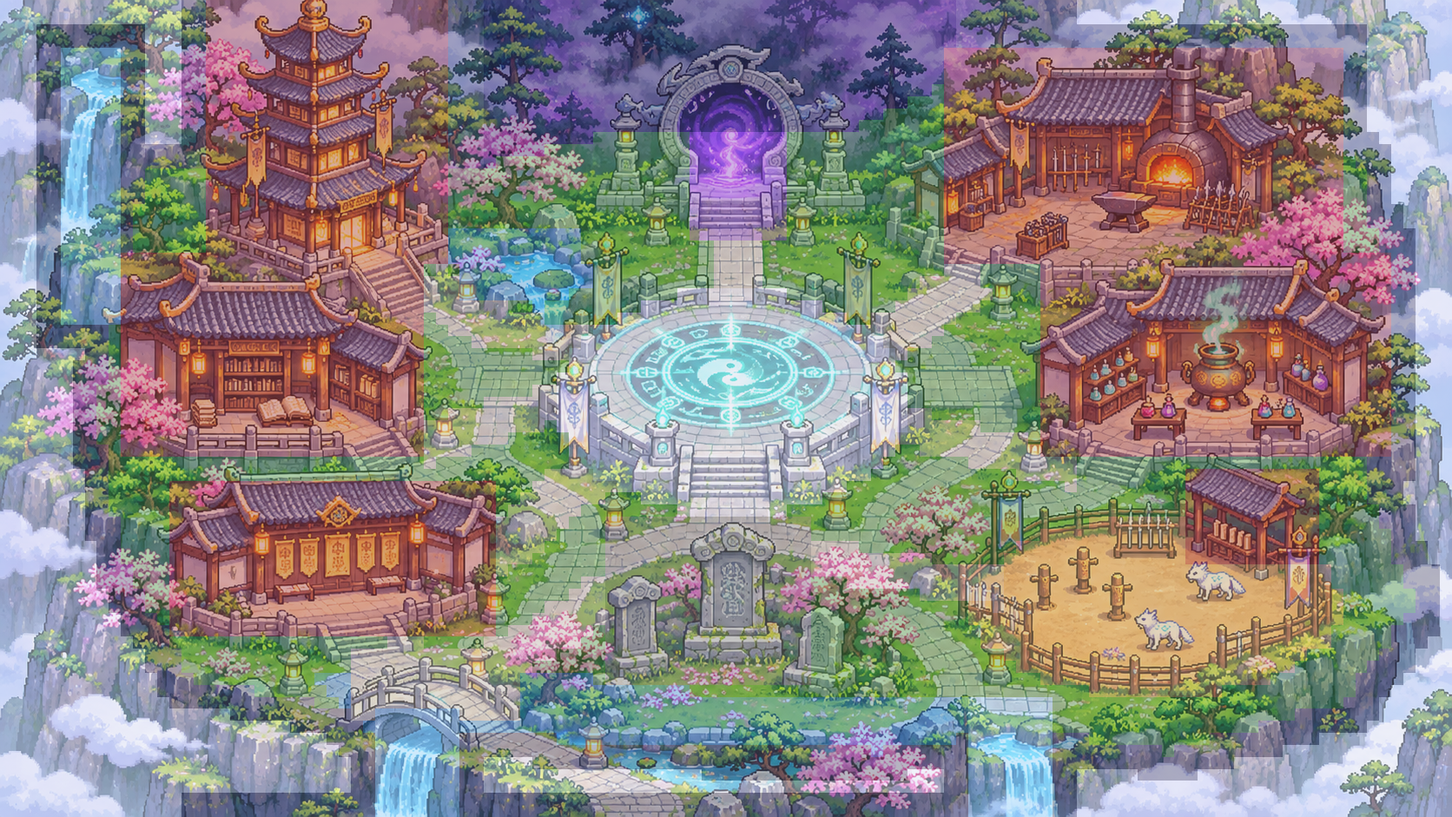
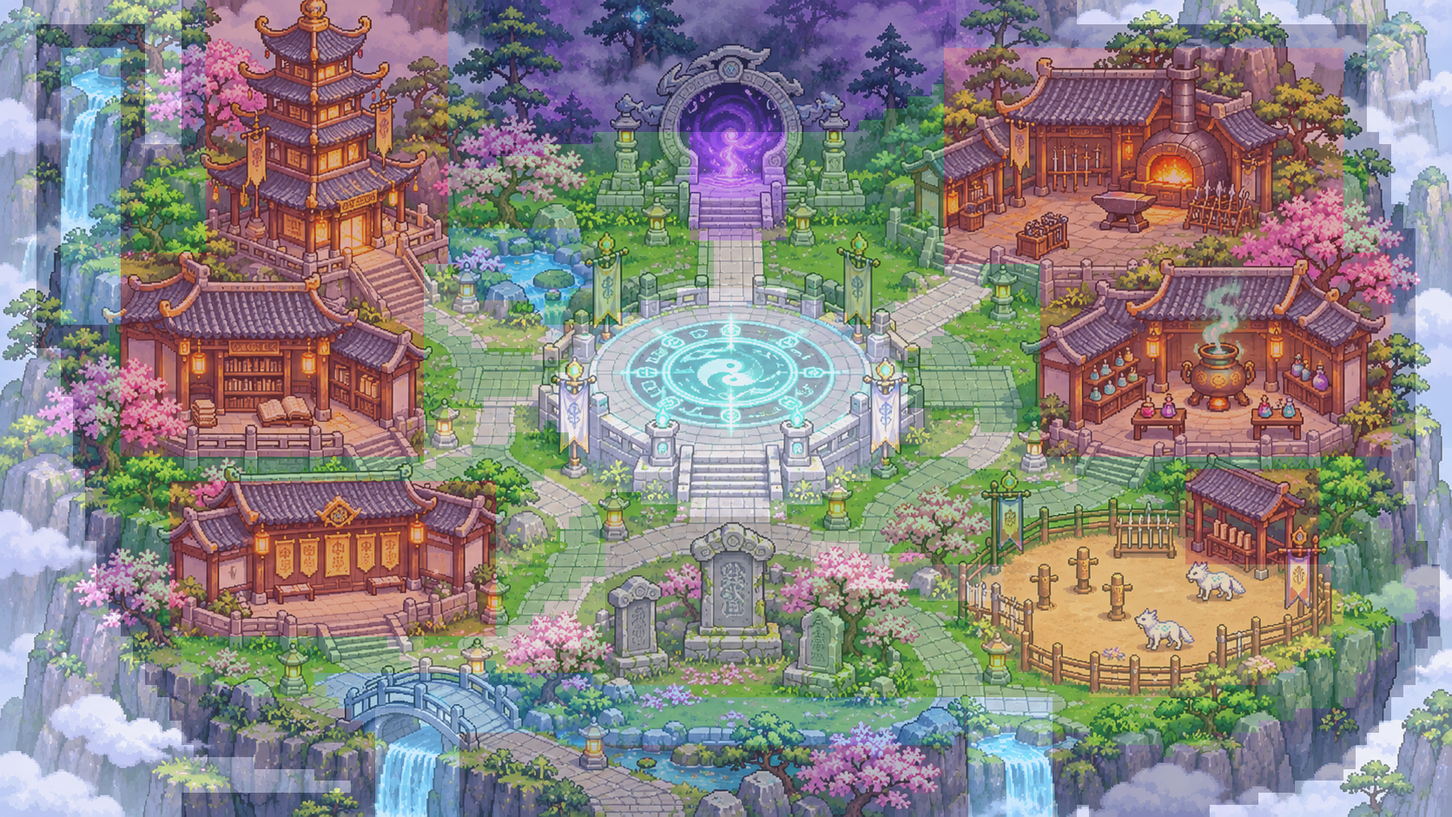
M8-15b/c/d: dia hinh sanh ve bang code (duong da, vach nui, may, thac dong), cau da tren suoi

diff --git a/src/data/sect_bocuc.js b/src/data/sect_bocuc.js
@@ -1,3 +1,3 @@
 // SINH TỰ ĐỘNG bởi tools/sect_bo_cuc.py — bố cục sảnh theo concept ảnh 1 (lưới ô). Đừng sửa tay.
 // . cỏ, = đường đá, ~ nước, d sân đất, ^ vách núi, T rừng, B chỗ công trình, P bệ, G cổng, X mây, b vườn bia, W thác
-export const BOCUC = {"nx": 120, "ny": 68, "rows": ["XXXXXXXXXXXXXXX^^BBBBBBBBBBBBBBBBBBBB^^^TTTTTTTTTTTTTTTTTTTTTTTTTTTTTTTTTTTTTTT^^^^^^^^^^XXXXXXXXXXXXXXXXXXXXXXXXXXXXXXX", "XXXXXXXXXXXXXXX^^BBBBBBBBBBBBBBBBBBBB^^^TTTTTTTTTTTTTTTTTTTTTTTTTTTTTTTTTTTTTTT^^^^^^^^^^XXXXXXXXXXXXXXXXXXXXXXXXXXXXXXX", "XXX^^^^^^^^^XXX^^BBBBBBBBBBBBBBBBBBBB^^^TTTTTTTTTTTTTTTTTTTTTTTTTTTTTTTTTTTTTTT^^^^^^^^^^^^^^^^^^^^^^^^^^^^^^^^^^XXXXXXX", "XXX^^^^^^^^^XXX^^BBBBBBBBBBBBBBBBBBBB^^^TTTTTTTTTTTTTTTTTTTTTTTTTTTTTTTTTTTTTTT^^^^^^^^^^^^^^^^^^^^^^^^^^^^^^^^^^XXXXXXX", "XXX^^WWWWW^^XXX^^BBBBBBBBBBBBBBBBBBBB^^^TTTTTTTTTTTTTTTTTTTTTTTTTTTTTTTTTTTTTTBBBBBBBBBBBBBBBBBBBBBBBBBBBBBBBBB^^XXXXXXX", "XXX^^WWWWW^^XXX^^BBBBBBBBBBBBBBBBBBBB^^^TTTTTTTTTTTTTTTTTTTTTTTTTTTTTTTTTTTTTTBBBBBBBBBBBBBBBBBBBBBBBBBBBBBBBBB^^XXXXXXX", "XXX^^WWWWW^^XXX^^BBBBBBBBBBBBBBBBBBBB^^^TTTTTTTTTTTTTTTTTTTTTTTTTTTTTTTTTTTTTTBBBBBBBBBBBBBBBBBBBBBBBBBBBBBBBBB^^XXXXXXX", "XXX^^WWWWW^^XXX^^BBBBBBBBBBBBBBBBBBBB^^^TTTTTTTTTTTTTTTTTTTTTTTTTTTTTTTTTTTTT.BBBBBBBBBBBBBBBBBBBBBBBBBBBBBBBBB^^XXXXXXX", "XXX^^WWWWW^^XXX^^BBBBBBBBBBBBBBBBBBBB^^^TTTTTTTTTTTTTTTTTTTTTTTTTTTTTTTTTTT...BBBBBBBBBBBBBBBBBBBBBBBBBBBBBBBBB^^XXXXXXX", "XXX^^WWWWW^^XXX^^BBBBBBBBBBBBBBBBBBBB^^^TTTTTTTTTTTTTTTTTTTTTTTTTTTTTTTTT.....BBBBBBBBBBBBBBBBBBBBBBBBBBBBBBBBB^^XXXXXXX", "XXX^^WWWWW^^XXX^^BBBBBBBBBBBBBBBBBBBB^^^TTTTTTTTTTTTTTTTTTTTTTTTTTTTTTT.......BBBBBBBBBBBBBBBBBBBBBBBBBBBBBBBBB^^XXXXXXX", "XXX^^WWWWW^^XXX^^BBBBBBBBBBBBBBBBBBBB^^^TTTTTTTTT........GGGGGGGG.............BBBBBBBBBBBBBBBBBBBBBBBBBBBBBBBBB^^^XXXXXX", "XXX^^WWWWW^^^^^^^BBBBBBBBBBBBBBBBBBBB^^^TTTTT............GGGGGGGG.............BBBBBBBBBBBBBBBBBBBBBBBBBBBBBBBBB^^^^XXXXX", "XXX^^WWWWW^^^^^^^BBBBBBBBBBBBBBBBBBBB^^^T................GGGGGGGG.............BBBBBBBBBBBBBBBBBBBBBBBBBBBBBBBBB.^^^XXXXX", "XXX^^WWWWW^^.....BBBBBBBBBBBBBBBBBBBB....................GGGGGGGG.............BBBBBBBBBBBBBBBBBBBBBBBBBBBBBBBBB..^^XXXXX", "XXX^^WWWWW^^.....BBBBBBBBBBBBBBBBBBBB....................GGGGGGGG.............BBBBBBBBBBBBBBBBBBBBBBBBBBBBBBBBB..^^XXXXX", "XXX^^WWWWW^^.....BBBBBBBBBBBBBBBBBBBB....................GGGGGGGG.............BBBBBBBBBBBBBBBBBBBBBBBBBBBBBBBBB..^^XXXXX", "XXX^^WWWWW^......BBBBBBBBBBBBBBBBBBBB....................GGGGGGGG.............BBBBBBBBBBBBBBBBBBBBBBBBBBBBBBBBB..^^^XXXX", "XXX^^WWWWW^......BBBBBBBBBBBBBBBBBBBB....................GGGGGGGG.............BBBBBBBBBBBBBBBBBBBBBBBBBBBBBBBBB..^^^XXXX", "XXX^^WWWWW^......BBBBBBBBBBBBBBBBBBBB~~~~~~~~~~~.........GGGGGGGG.............BBBBBBBBBBBBBBBBBBBBBBBBBBBBBBBBB...^^^XXX", "XXX^^WWWWW^......BBBBBBBBBBBBBBBBBBBB~~~~~~~~~~~...........====...............BBBBBBBBBBBBBBBBBBBBBBBBBBBBBBBBB...^^^XXX", "XXX^^WWWWWBBBBBBBBBBBBBBBBBBBBBBBBBBB~~~~~~~~~~~...........====...............BBBBBBBBBBBBBBBBBBBBBBBBBBBBBBBBBBBBB^^XXX", "XXX^^WWWWWBBBBBBBBBBBBBBBBBBBBBBBBB.=.~~~~~~~~~~~..........====...............===.....BBBBBBBBBBBBBBBBBBBBBBBBBBBBB^^XXX", "XXX^^WWWWWBBBBBBBBBBBBBBBBBBBBBBBBB===~~~~~~~~~~~..........====.............=====.....BBBBBBBBBBBBBBBBBBBBBBBBBBBBB^^XXX", "XXX^^WWWWWBBBBBBBBBBBBBBBBBBBBBBBBB===~~~~~~~~~.........PPPPPPPPP..........=======....BBBBBBBBBBBBBBBBBBBBBBBBBBBBB^^XXX", "XXX^^WWWWWBBBBBBBBBBBBBBBBBBBBBBBBB=======..~........PPPPPPPPPPPPPPP......=======.....BBBBBBBBBBBBBBBBBBBBBBBBBBBBB^^XXX", "XXX^^WWWWWBBBBBBBBBBBBBBBBBBBBBBBBB.=========......PPPPPPPPPPPPPPPPPPP..=======.......BBBBBBBBBBBBBBBBBBBBBBBBBBBBB^^XXX", "XXX^^^^^^.BBBBBBBBBBBBBBBBBBBBBBBBB..============PPPPPPPPPPPPPPPPPPPPPPP======........BBBBBBBBBBBBBBBBBBBBBBBBBBBBB^^XXX", "XXX^^^^^^.BBBBBBBBBBBBBBBBBBBBBBBBB....=========PPPPPPPPPPPPPPPPPPPPPPPPP====.........BBBBBBBBBBBBBBBBBBBBBBBBBBBBB^^XXX", "XXXXXXX^^.BBBBBBBBBBBBBBBBBBBBBBBBB.........===PPPPPPPPPPPPPPPPPPPPPPPPPPP=...........BBBBBBBBBBBBBBBBBBBBBBBBBBBBB^^XXX", "XXXXXX^^^.BBBBBBBBBBBBBBBBBBBBBBBBB............PPPPPPPPPPPPPPPPPPPPPPPPPPP............BBBBBBBBBBBBBBBBBBBBBBBBBBBBB^^XXX", "XXXXXX^^^.BBBBBBBBBBBBBBBBBBBBBBBBB...........PPPPPPPPPPPPPPPPPPPPPPPPPPPPP...........BBBBBBBBBBBBBBBBBBBBBBBBBBBBB^^XXX", "XXXXXX^^..BBBBBBBBBBBBBBBBBBBBBBBBB.........==PPPPPPPPPPPPPPPPPPPPPPPPPPPPP...........BBBBBBBBBBBBBBBBBBBBBBBBBBBBB^^XXX", "XXXXXX^^..BBBBBBBBBBBBBBBBBBBBBBBBB.....======PPPPPPPPPPPPPPPPPPPPPPPPPPPPP...........BBBBBBBBBBBBBBBBBBBBBBBBBBBBB^^XXX", "XXXXXX^^..BBBBBBBBBBBBBBBBBBBBBBBBB..=========PPPPPPPPPPPPPPPPPPPPPPPPPPPPP==.........BBBBBBBBBBBBBBBBBBBBBBBBBBBBB^^XXX", "XXXXXX^^..BBBBBBBBBBBBBBBBBBBBBBBBB==========.PPPPPPPPPPPPPPPPPPPPPPPPPPPPP======.....BBBBBBBBBBBBBBBBBBBBBBBBBBBBB^^XXX", "XXXXXX^^..BBBBBBBBBBBBBBBBBBBBBBBBB=======.....PPPPPPPPPPPPPPPPPPPPPPPPPPP===========.BBBBBBBBBBBBBBBBBBBBBBBBBBBBB^^XXX", "XXXXXX^^^.BBBBBBBBBBBBBBBBBBBBBBBBB====........PPPPPPPPPPPPPPPPPPPPPPPPPPP..==========BBBBBBBBBBBBBBBBBBBBBBBBBBBBB^^XXX", "XXXXXX^^^..........................=...........=PPPPPPPPPPPPPPPPPPPPPPPPP.......=========........................^^^^XXX", "XXXXXXX^^....................................====PPPPPPPPPPPPPPPPPPPPPPP............=====.........BBBBBBBBBBB....^^^^XXX", "XXXXXXX^^.....BBBBBBBBBBBBBBBBBBBBBBBBBBB...=======PPPPPPPPPPPPPPPPPPP..................=.........BBBBBBBBBBB....^^^XXXX", "XXXXXXX^^.....BBBBBBBBBBBBBBBBBBBBBBBBBBB..=======...PPPPPPPPPPPPPPP..............................BBBBBBBBBBB....^^^XXXX", "XXXXXXX^^.....BBBBBBBBBBBBBBBBBBBBBBBBBBB.======........PPPPPPPPP.................................BBBBBBBBBBB.....^^^XXX", "XXXXXXX^^^....BBBBBBBBBBBBBBBBBBBBBBBBBBB======...bbbbbbbbbbbbbbbbb.......................ddddddddBBBBBBBBBBB.....^^^XXX", "XXXXXXX^^^....BBBBBBBBBBBBBBBBBBBBBBBBBBB=====....bbbbbbbbbbbbbbbbb...................ddddddddddddBBBBBBBBBBB......^^XXX", "XXXXXXXX^^....BBBBBBBBBBBBBBBBBBBBBBBBBBB====.....bbbbbbbbbbbbbbbbb====.............ddddddddddddddBBBBBBBBBBB......^^^XX", "XXXXXXXX^^....BBBBBBBBBBBBBBBBBBBBBBBBBBB===......bbbbbbbbbbbbbbbbb==========......dddddddddddddddBBBBBBBBBBB......^^^XX", "XXXXXXXX^^^...BBBBBBBBBBBBBBBBBBBBBBBBBBB=........bbbbbbbbbbbbbbbbb================ddddddddddddddddddddddddddd......^^^X", "XXXXXXXX^^^...BBBBBBBBBBBBBBBBBBBBBBBBBBB.......==bbbbbbbbbbbbbbbbb...=============ddddddddddddddddddddddddddd......^^^X", "XXXXXXXXX^^^..BBBBBBBBBBBBBBBBBBBBBBBBBBB......===bbbbbbbbbbbbbbbbb.........=======dddddddddddddddddddddddddddd......^^X", "XXXXXXXXX^^^..BBBBBBBBBBBBBBBBBBBBBBBBBBB....=====bbbbbbbbbbbbbbbbb.............dd=dddddddddddddddddddddddddddd......^^X", "XXXXXXXXXX^^^.BBBBBBBBBBBBBBBBBBBBBBBBBBB...======bbbbbbbbbbbbbbbbb.............ddddddddddddddddddddddddddddddd.....^^^X", "XXXXXXXXXX^^^^BBBBBBBBBBBBBBBBBBBBBBBBBBB.=======.bbbbbbbbbbbbbbbbb..............ddddddddddddddddddddddddddddd.....^^^^X", "XXXXXXXXXXX^^^..................===.....========..bbbbbbbbbbbbbbbbb..............ddddddddddddddddddddddddddddd.....^^^XX", "XXXXXXXXXXXX^^^..............=================....bbbbbbbbbbbbbbbbb................ddddddddddddddddddddddddd......^^^XXX", "XXXXXXXXXXXX^^^..............===============......bbbbbbbbbbbbbbbbb.................ddddddddddddddddddddddd......^^^^XXX", "XXXXXXXXXXXXX^^^..........~~~==============~~~~~~.bbbbbbbbbbbbbbbbb...................ddddddddddddddddddd.......^^^^XXXX", "XXXXXXXXXXXXX^^^^^^^^......~~==============~~~~~~~~~~~~~~.................................ddddddddddd...........^^^XXXXX", "XXXXXXXXXXXXXX^^^^^^^^^^^^..~==============~~~~~~~~~~~~~~~~~~~~~~~~~~~~~~~~~~~~~WWWWWWW........................^^^XXXXXX", "XXXXXXXXXXXXXXXXXXX^^^^^^^^^^==WWWWWWW=====~~~~~~~~~~~~~~~~~~~~~~~~~~~~~~~~~~~~~WWWWWWW....................^^^^^^^XXXXXX", "XXXXXXXXXXXXXXXXXXXXXXXX^^^^^^~WWWWWWW~~~~~~~~~~~~~~~~~~~~~~~~~~~~~~~~~~~~~~~~~~WWWWWWW.................^^^^^^^^^XXXXXXX", "XXXXXXXXXXXXXXXXXXXXXXXXXXX^^^^WWWWWWW^^^^^^^^~~~~~~~~~~~~~~~~~~~~~~~~~~~~~~~~~^WWWWWWW^^^..........^^^^^^^^^XXXXXXXXXXX", "XXXXXXXXXXXXXXXXXXXXXXXXXXXX^^^WWWWWWW^^^^^^^^^^^^^^^^^^^^^^^^^^^^^^^^^^~^^^^^^^WWWWWWW^^^^^^^^^.^^^^^^^^^XXXXXXXXXXXXXX", "XXXXXXXXXXXXXXXXXXXXXXXXXXXXX^^WWWWWWW^^XXXX^^^^^^^^^^^^^^^^^^^^^^^^^^^^^^^^^^^^WWWWWWW^^^^^^^^^^^^^^^XXXXXXXXXXXXXXXXXX", "XXXXXXXXXXXXXXXXXXXXXXXXXXXXX^^WWWWWWW^^XXXXXXXXXXXXXXXXXX^^^^^^^^^^^^^^^^^XXX^^WWWWWWW^^XXXXX^^^^^XXXXXXXXXXXXXXXXXXXXX", "XXXXXXXXXXXXXXXXXXXXXXXXXXXXX^^WWWWWWW^^XXXXXXXXXXXXXXXXXXXXXXXXXXXXXXXXXXXXXX^^WWWWWWW^^XXXXXXXXXXXXXXXXXXXXXXXXXXXXXXX", "XXXXXXXXXXXXXXX^^^^^^^^^^^^^^^^WWWWWWW^^^^^^^^^^^^^^^^^^^^^^^^^^^^^^^^^^^^^^^^^^WWWWWWW^^XXXXXXXXXXXXXXXXXXXXXXXXXXXXXXX", "XXXXXXXXXXXXXXX^^^^^^^^^^^^^^^^WWWWWWW^^^^^^^^^^^^^^^^^^^^^^^^^^^^^^^^^^^^^^^^^^WWWWWWW^^XXXXXXXXXXXXXXXXXXXXXXXXXXXXXXX"], "buildings": {"truyen_thua": {"box": [17, 0, 36, 21], "foot": [35, 24], "name": "Truyền Thừa Các (tháp)"}, "tang_kinh": {"box": [10, 21, 34, 37], "foot": [34, 37], "name": "Tàng Kinh Các"}, "cong_duc": {"box": [14, 40, 40, 52], "foot": [32, 53], "name": "Công Đức Đường"}, "luyen_khi": {"box": [78, 4, 110, 21], "foot": [80, 22], "name": "Luyện Khí Phường"}, "dan_duoc": {"box": [86, 21, 114, 37], "foot": [88, 38], "name": "Đan Dược Phòng"}, "luyen_vo_choi": {"box": [98, 39, 108, 46], "foot": [98, 46], "name": "chòi Luyện Võ"}}, "plaza": {"c": [60.5, 33], "rx": 14, "ry": 9}, "gate": {"x": [57, 64], "y": [11, 19]}};
+export const BOCUC = {"nx": 120, "ny": 68, "rows": ["XXXXXXXXXXXXXXX^^BBBBBBBBBBBBBBBBBBBB^^^TTTTTTTTTTTTTTTTTTTTTTTTTTTTTTTTTTTTTTT^^^^^^^^^^XXXXXXXXXXXXXXXXXXXXXXXXXXXXXXX", "XXXXXXXXXXXXXXX^^BBBBBBBBBBBBBBBBBBBB^^^TTTTTTTTTTTTTTTTTTTTTTTTTTTTTTTTTTTTTTT^^^^^^^^^^XXXXXXXXXXXXXXXXXXXXXXXXXXXXXXX", "XXX^^^^^^^^^XXX^^BBBBBBBBBBBBBBBBBBBB^^^TTTTTTTTTTTTTTTTTTTTTTTTTTTTTTTTTTTTTTT^^^^^^^^^^^^^^^^^^^^^^^^^^^^^^^^^^XXXXXXX", "XXX^^^^^^^^^XXX^^BBBBBBBBBBBBBBBBBBBB^^^TTTTTTTTTTTTTTTTTTTTTTTTTTTTTTTTTTTTTTT^^^^^^^^^^^^^^^^^^^^^^^^^^^^^^^^^^XXXXXXX", "XXX^^WWWWW^^XXX^^BBBBBBBBBBBBBBBBBBBB^^^TTTTTTTTTTTTTTTTTTTTTTTTTTTTTTTTTTTTTTBBBBBBBBBBBBBBBBBBBBBBBBBBBBBBBBB^^XXXXXXX", "XXX^^WWWWW^^XXX^^BBBBBBBBBBBBBBBBBBBB^^^TTTTTTTTTTTTTTTTTTTTTTTTTTTTTTTTTTTTTTBBBBBBBBBBBBBBBBBBBBBBBBBBBBBBBBB^^XXXXXXX", "XXX^^WWWWW^^XXX^^BBBBBBBBBBBBBBBBBBBB^^^TTTTTTTTTTTTTTTTTTTTTTTTTTTTTTTTTTTTTTBBBBBBBBBBBBBBBBBBBBBBBBBBBBBBBBB^^XXXXXXX", "XXX^^WWWWW^^XXX^^BBBBBBBBBBBBBBBBBBBB^^^TTTTTTTTTTTTTTTTTTTTTTTTTTTTTTTTTTTTT.BBBBBBBBBBBBBBBBBBBBBBBBBBBBBBBBB^^XXXXXXX", "XXX^^WWWWW^^XXX^^BBBBBBBBBBBBBBBBBBBB^^^TTTTTTTTTTTTTTTTTTTTTTTTTTTTTTTTTTT...BBBBBBBBBBBBBBBBBBBBBBBBBBBBBBBBB^^XXXXXXX", "XXX^^WWWWW^^XXX^^BBBBBBBBBBBBBBBBBBBB^^^TTTTTTTTTTTTTTTTTTTTTTTTTTTTTTTTT.....BBBBBBBBBBBBBBBBBBBBBBBBBBBBBBBBB^^XXXXXXX", "XXX^^WWWWW^^XXX^^BBBBBBBBBBBBBBBBBBBB^^^TTTTTTTTTTTTTTTTTTTTTTTTTTTTTTT.......BBBBBBBBBBBBBBBBBBBBBBBBBBBBBBBBB^^XXXXXXX", "XXX^^WWWWW^^XXX^^BBBBBBBBBBBBBBBBBBBB^^^TTTTTTTTT........GGGGGGGG.............BBBBBBBBBBBBBBBBBBBBBBBBBBBBBBBBB^^^XXXXXX", "XXX^^WWWWW^^^^^^^BBBBBBBBBBBBBBBBBBBB^^^TTTTT............GGGGGGGG.............BBBBBBBBBBBBBBBBBBBBBBBBBBBBBBBBB^^^^XXXXX", "XXX^^WWWWW^^^^^^^BBBBBBBBBBBBBBBBBBBB^^^T................GGGGGGGG.............BBBBBBBBBBBBBBBBBBBBBBBBBBBBBBBBB.^^^XXXXX", "XXX^^WWWWW^^.....BBBBBBBBBBBBBBBBBBBB....................GGGGGGGG.............BBBBBBBBBBBBBBBBBBBBBBBBBBBBBBBBB..^^XXXXX", "XXX^^WWWWW^^.....BBBBBBBBBBBBBBBBBBBB....................GGGGGGGG.............BBBBBBBBBBBBBBBBBBBBBBBBBBBBBBBBB..^^XXXXX", "XXX^^WWWWW^^.....BBBBBBBBBBBBBBBBBBBB....................GGGGGGGG.............BBBBBBBBBBBBBBBBBBBBBBBBBBBBBBBBB..^^XXXXX", "XXX^^WWWWW^......BBBBBBBBBBBBBBBBBBBB....................GGGGGGGG.............BBBBBBBBBBBBBBBBBBBBBBBBBBBBBBBBB..^^^XXXX", "XXX^^WWWWW^......BBBBBBBBBBBBBBBBBBBB....................GGGGGGGG.............BBBBBBBBBBBBBBBBBBBBBBBBBBBBBBBBB..^^^XXXX", "XXX^^WWWWW^......BBBBBBBBBBBBBBBBBBBB~~~~~~~~~~~.........GGGGGGGG.............BBBBBBBBBBBBBBBBBBBBBBBBBBBBBBBBB...^^^XXX", "XXX^^WWWWW^......BBBBBBBBBBBBBBBBBBBB~~~~~~~~~~~...........====...............BBBBBBBBBBBBBBBBBBBBBBBBBBBBBBBBB...^^^XXX", "XXX^^WWWWWBBBBBBBBBBBBBBBBBBBBBBBBBBB~~~~~~~~~~~...........====...............BBBBBBBBBBBBBBBBBBBBBBBBBBBBBBBBBBBBB^^XXX", "XXX^^WWWWWBBBBBBBBBBBBBBBBBBBBBBBBB.=.~~~~~~~~~~~..........====...............===.....BBBBBBBBBBBBBBBBBBBBBBBBBBBBB^^XXX", "XXX^^WWWWWBBBBBBBBBBBBBBBBBBBBBBBBB===~~~~~~~~~~~..........====.............=====.....BBBBBBBBBBBBBBBBBBBBBBBBBBBBB^^XXX", "XXX^^WWWWWBBBBBBBBBBBBBBBBBBBBBBBBB===~~~~~~~~~.........PPPPPPPPP..........=======....BBBBBBBBBBBBBBBBBBBBBBBBBBBBB^^XXX", "XXX^^WWWWWBBBBBBBBBBBBBBBBBBBBBBBBB=======..~........PPPPPPPPPPPPPPP......=======.....BBBBBBBBBBBBBBBBBBBBBBBBBBBBB^^XXX", "XXX^^WWWWWBBBBBBBBBBBBBBBBBBBBBBBBB.=========......PPPPPPPPPPPPPPPPPPP..=======.......BBBBBBBBBBBBBBBBBBBBBBBBBBBBB^^XXX", "XXX^^^^^^.BBBBBBBBBBBBBBBBBBBBBBBBB..============PPPPPPPPPPPPPPPPPPPPPPP======........BBBBBBBBBBBBBBBBBBBBBBBBBBBBB^^XXX", "XXX^^^^^^.BBBBBBBBBBBBBBBBBBBBBBBBB....=========PPPPPPPPPPPPPPPPPPPPPPPPP====.........BBBBBBBBBBBBBBBBBBBBBBBBBBBBB^^XXX", "XXXXX^^^^.BBBBBBBBBBBBBBBBBBBBBBBBB.........===PPPPPPPPPPPPPPPPPPPPPPPPPPP=...........BBBBBBBBBBBBBBBBBBBBBBBBBBBBB^^XXX", "XXXXX^^^^.BBBBBBBBBBBBBBBBBBBBBBBBB............PPPPPPPPPPPPPPPPPPPPPPPPPPP............BBBBBBBBBBBBBBBBBBBBBBBBBBBBB^^XXX", "XXXXX^^^^.BBBBBBBBBBBBBBBBBBBBBBBBB...........PPPPPPPPPPPPPPPPPPPPPPPPPPPPP...........BBBBBBBBBBBBBBBBBBBBBBBBBBBBB^^XXX", "XXXXX^^^..BBBBBBBBBBBBBBBBBBBBBBBBB.........==PPPPPPPPPPPPPPPPPPPPPPPPPPPPP...........BBBBBBBBBBBBBBBBBBBBBBBBBBBBB^^XXX", "XXXXXX^^..BBBBBBBBBBBBBBBBBBBBBBBBB.....======PPPPPPPPPPPPPPPPPPPPPPPPPPPPP...........BBBBBBBBBBBBBBBBBBBBBBBBBBBBB^^XXX", "XXXXXX^^..BBBBBBBBBBBBBBBBBBBBBBBBB..=========PPPPPPPPPPPPPPPPPPPPPPPPPPPPP==.........BBBBBBBBBBBBBBBBBBBBBBBBBBBBB^^XXX", "XXXXXX^^..BBBBBBBBBBBBBBBBBBBBBBBBB==========.PPPPPPPPPPPPPPPPPPPPPPPPPPPPP======.....BBBBBBBBBBBBBBBBBBBBBBBBBBBBB^^XXX", "XXXXXX^^..BBBBBBBBBBBBBBBBBBBBBBBBB=======.....PPPPPPPPPPPPPPPPPPPPPPPPPPP===========.BBBBBBBBBBBBBBBBBBBBBBBBBBBBB^^XXX", "XXXXXX^^^.BBBBBBBBBBBBBBBBBBBBBBBBB====........PPPPPPPPPPPPPPPPPPPPPPPPPPP..==========BBBBBBBBBBBBBBBBBBBBBBBBBBBBB^^XXX", "XXXXXX^^^..........................=...........=PPPPPPPPPPPPPPPPPPPPPPPPP.......=========........................^^^^XXX", "XXXXXXX^^....................................====PPPPPPPPPPPPPPPPPPPPPPP............=====.........BBBBBBBBBBB....^^^^XXX", "XXXXXXX^^.....BBBBBBBBBBBBBBBBBBBBBBBBBBB...=======PPPPPPPPPPPPPPPPPPP..................=.........BBBBBBBBBBB....^^^XXXX", "XXXXXXX^^.....BBBBBBBBBBBBBBBBBBBBBBBBBBB..=======...PPPPPPPPPPPPPPP..............................BBBBBBBBBBB....^^^XXXX", "XXXXXXX^^.....BBBBBBBBBBBBBBBBBBBBBBBBBBB.======........PPPPPPPPP.................................BBBBBBBBBBB.....^^^XXX", "XXXXXXX^^^....BBBBBBBBBBBBBBBBBBBBBBBBBBB======...bbbbbbbbbbbbbbbbb.......................ddddddddBBBBBBBBBBB.....^^^XXX", "XXXXXXX^^^....BBBBBBBBBBBBBBBBBBBBBBBBBBB=====....bbbbbbbbbbbbbbbbb...................ddddddddddddBBBBBBBBBBB......^^XXX", "XXXXXXXX^^....BBBBBBBBBBBBBBBBBBBBBBBBBBB====.....bbbbbbbbbbbbbbbbb====.............ddddddddddddddBBBBBBBBBBB......^^^XX", "XXXXXXXX^^....BBBBBBBBBBBBBBBBBBBBBBBBBBB===......bbbbbbbbbbbbbbbbb==========......dddddddddddddddBBBBBBBBBBB......^^^XX", "XXXXXXXX^^^...BBBBBBBBBBBBBBBBBBBBBBBBBBB=........bbbbbbbbbbbbbbbbb================ddddddddddddddddddddddddddd......^^^X", "XXXXXXXX^^^...BBBBBBBBBBBBBBBBBBBBBBBBBBB.......==bbbbbbbbbbbbbbbbb...=============ddddddddddddddddddddddddddd......^^^X", "XXXXXXXXX^^^..BBBBBBBBBBBBBBBBBBBBBBBBBBB......===bbbbbbbbbbbbbbbbb.........=======dddddddddddddddddddddddddddd......^^X", "XXXXXXXXX^^^..BBBBBBBBBBBBBBBBBBBBBBBBBBB....=====bbbbbbbbbbbbbbbbb.............dd=dddddddddddddddddddddddddddd......^^X", "XXXXXXXXXX^^^.BBBBBBBBBBBBBBBBBBBBBBBBBBB...======bbbbbbbbbbbbbbbbb.............ddddddddddddddddddddddddddddddd.....^^^X", "XXXXXXXXXX^^^^BBBBBBBBBBBBBBBBBBBBBBBBBBB.=======.bbbbbbbbbbbbbbbbb..............ddddddddddddddddddddddddddddd.....^^^^X", "XXXXXXXXXXX^^^..................===.....========..bbbbbbbbbbbbbbbbb..............ddddddddddddddddddddddddddddd.....^^^XX", "XXXXXXXXXXX^^^^..................=============....bbbbbbbbbbbbbbbbb................ddddddddddddddddddddddddd......^^^XXX", "XXXXXXXXXXXX^^^...................======~===......bbbbbbbbbbbbbbbbb.................ddddddddddddddddddddddd......^^^^XXX", "XXXXXXXXXXXX^^^^..........~~~~~~~~~~~~~~~~~~~~~~~.bbbbbbbbbbbbbbbbb...................ddddddddddddddddddd.......^^^^^XXX", "XXXXXXXXXXXXX^^^^^^^^......~~~~~~~~~~~~~~~~~~~~~~~~~~~~~~.................................ddddddddddd...........^^^^XXXX", "XXXXXXXXXXXXXX^^^^^^^^^^^^..~~~~~~~~~~~~~~~~~~~~~~~~~~~~~~~~~~~~~~~~~~~~~~~~~~~~WWWWWWW........................^^^^XXXXX", "XXXXXXXXXXXXXX^^^^^^^^^^^^^^^~~WWWWWWW~~~~~~~~~~~~~~~~~~~~~~~~~~~~~~~~~~~~~~~~~~WWWWWWW....................^^^^^^^^XXXXX", "XXXXXXXXXXXXXXX^^^^^^^^^^^^^^^~WWWWWWW~~~~~~~~~~~~~~~~~~~~~~~~~~~~~~~~~~~~~~~~~~WWWWWWW.................^^^^^^^^^^XXXXXX", "XXXXXXXXXXXXXXX^^^^^^^^^^^^^^^^WWWWWWW^^^^^^^^~~~~~~~~~~~~~~~~~~~~~~~~~~~~~~~~~^WWWWWWW^^^..........^^^^^^^^^^^^^XXXXXXX", "XXXXXXXXXXXXXXXX^^^^^^^^^^^^^^^WWWWWWW^^^^^^^^^^^^^^^^^^^^^^^^^^^^^^^^^^~^^^^^^^WWWWWWW^^^^^^^^^.^^^^^^^^^^^^^^^XXXXXXXX", "XXXXXXXXXXXXXXXXXXXXX^^^^^^^^^^WWWWWWW^^^^^^^^^^^^^^^^^^^^^^^^^^^^^^^^^^^^^^^^^^WWWWWWW^^^^^^^^^^^^^^^^^^^^^^^^^XXXXXXXX", "XXXXXXXXXXXXXXXXXXXXXXXXXX^^^^^WWWWWWW^^^^^^^^^^^^^^^^^^^^^^^^^^^^^^^^^^^^^^^^^^WWWWWWW^^^^^^^^^^^^^^^^^^^^^^^^XXXXXXXXX", "XXXXXXXXXXXXXXXXXXXXXXXXXXXXX^^WWWWWWW^^^^^^^^^^^^^^^^^^^^^^^^^^^^^^^^^^^^^^^^^^WWWWWWW^^^^^^^^^^^^^^^^^^^^XXXXXXXXXXXXX", "XXXXXXXXXXXXXXX^^^^^^^^^^^^^^^^WWWWWWW^^^^^^^^^^^^^^^^^^^^^^^^^^^^^^^^^^^^^^^^^^WWWWWWW^^^^^^^^^^^^^^^^^XXXXXXXXXXXXXXXX", "XXXXXXXXXXXXXXX^^^^^^^^^^^^^^^^WWWWWWW^^^^^^^^^^^^^^^^^^^^^^^^^^^^^^^^^^^^^^^^^^WWWWWWW^^X^^^^^^^^^^XXXXXXXXXXXXXXXXXXXX"], "buildings": {"truyen_thua": {"box": [17, 0, 36, 21], "foot": [35, 24], "name": "Truyền Thừa Các (tháp)"}, "tang_kinh": {"box": [10, 21, 34, 37], "foot": [34, 37], "name": "Tàng Kinh Các"}, "cong_duc": {"box": [14, 40, 40, 52], "foot": [32, 53], "name": "Công Đức Đường"}, "luyen_khi": {"box": [78, 4, 110, 21], "foot": [80, 22], "name": "Luyện Khí Phường"}, "dan_duoc": {"box": [86, 21, 114, 37], "foot": [88, 38], "name": "Đan Dược Phòng"}, "luyen_vo_choi": {"box": [98, 39, 108, 46], "foot": [98, 46], "name": "chòi Luyện Võ"}}, "plaza": {"c": [60.5, 33], "rx": 14, "ry": 9}, "gate": {"x": [57, 64], "y": [11, 19]}};

diff --git a/src/render/render.js b/src/render/render.js
@@ -1,6 +1,6 @@
 // Vẽ một khung: bản đồ, vật thể sắp theo y, yêu thú, người chơi, công pháp, hiệu ứng beanfx và hạt sáng.
 import { VIEW, TILE as T, HUB, FEATURES, ARCH, BOSS, TRIBULATION, SHRINE, BASIC_ATTACK } from '../core/config.js';
-import { GRASS, WATER, STONE, TREE, ROCK, BUILDING, FENCE, DIRT, CLIFF, CLOUD } from '../world/map.js';
+import { GRASS, WATER, STONE, TREE, ROCK, BUILDING, FENCE, DIRT, CLIFF, CLOUD, FALL } from '../world/map.js';
 import { SPR, TIERS, BOSS_WHITE, BOSS_SPR, grassTiles, waterTiles, waterBank, stoneTile, treeSprs, rockSpr, hash } from './sprites.js';
 import { createFx } from '../../lib/beanfx.js';
 import { skillKind, skillParams, spiritOrbPos, sealOrbPos } from '../systems/combat.js';
@@ -182,6 +182,50 @@ function tileObj(map, tx, ty, props) {
   if (t === ROCK) return { y: y + T - 2, img: rockSpr, x: x + 1, dy: y + 5 };
   return null;
 }
+// ---------- M8 (15/11): địa hình sảnh tông môn vẽ bằng code (đường đá viền bo góc, vách núi, mây, thác) ----------
+const isWalkT = t => t === GRASS || t === STONE || t === DIRT || t === BUILDING || t === FENCE || t === TREE || t === ROCK;
+const PATHC = { base: '#bdb6ae', hi: '#d6d0c8', lo: '#9a948e', joint: '#837d78', curb: '#6d6863' };
+function paintPath(g, map, tx, ty, x, y) {   // đá cuội: từng viên không đều + mép giáp cỏ có bờ đá và bo góc
+  g.fillStyle = PATHC.joint; g.fillRect(x, y, T, T);
+  for (let r = 0; r < 4; r++) for (let c = 0; c < 3; c++) {
+    const h = hash(tx * 7 + c, ty * 5 + r, 51), w = 4 + Math.floor(h * 3), sx = x + c * 5 + ((r & 1) ? 2 : 0) + Math.floor(h * 2) - 1, sy = y + r * 4;
+    g.fillStyle = h < 0.3 ? PATHC.lo : PATHC.base; g.fillRect(sx, sy, w, 3);
+    g.fillStyle = PATHC.hi; g.fillRect(sx, sy, w - 1, 1);
+  }
+  const gr = (dx, dy) => { const t = map.tileAt(tx + dx, ty + dy); return t === GRASS || t === TREE || t === ROCK; };
+  const n = gr(0, -1), s = gr(0, 1), w = gr(-1, 0), e = gr(1, 0);
+  g.fillStyle = PATHC.curb;
+  if (n) g.fillRect(x, y, T, 2); if (s) g.fillRect(x, y + T - 2, T, 2); if (w) g.fillRect(x, y, 2, T); if (e) g.fillRect(x + T - 2, y, 2, T);
+  const gt = grassTiles[0];   // bo góc: hai cạnh kề là cỏ -> phủ tam giác cỏ ở góc
+  const corner = (cx0, cy0, sx, sy) => { for (let i = 0; i < 6; i++) g.drawImage(gt, cx0 + (sx > 0 ? 0 : 0), 0, 6 - i, 1, x + (sx > 0 ? T - (6 - i) : 0), y + (sy > 0 ? T - 1 - i : i), 6 - i, 1); };
+  if (n && w) corner(0, 0, -1, -1); if (n && e) corner(0, 0, 1, -1); if (s && w) corner(0, 0, -1, 1); if (s && e) corner(0, 0, 1, 1);
+}
+function paintCliff(g, map, tx, ty, x, y) {   // mặt vách dọc: nhìn 3/4 thấy mặt đá dưới mép đảo; càng xuống càng tối
+  let depth = 0; while (depth < 6 && map.tileAt(tx, ty - depth - 1) === CLIFF) depth++;
+  const top = isWalkT(map.tileAt(tx, ty - 1)) || map.tileAt(tx, ty - 1) === WATER;
+  const shade = [['#7d7e9a', '#6a6b86', '#565771'], ['#717290', '#5e5f7a', '#4c4d66'], ['#666784', '#54556f', '#43445b']][Math.min(2, depth >> 1)];
+  g.fillStyle = shade[1]; g.fillRect(x, y, T, T);
+  for (let i = 0; i < 3; i++) { const cx0 = x + Math.floor(hash(tx, ty, 52 + i) * 14); g.fillStyle = shade[2]; g.fillRect(cx0, y, 1, T); g.fillStyle = shade[0]; g.fillRect(cx0 + 1, y, 1, T); }
+  if (hash(tx, ty, 55) < 0.5) { const ly = y + 4 + Math.floor(hash(tx, ty, 56) * 8); g.fillStyle = shade[0]; g.fillRect(x, ly, T, 1); g.fillStyle = shade[2]; g.fillRect(x, ly + 1, T, 1); }
+  if (top) {   // mép đảo: viền cỏ rủ xuống + bóng
+    g.fillStyle = '#3f7a35'; g.fillRect(x, y, T, 3);
+    for (let i = 0; i < 4; i++) g.fillRect(x + Math.floor(hash(tx, ty, 57 + i) * 15), y + 3, 1, 1 + Math.floor(hash(tx, ty, 61 + i) * 3));
+    g.fillStyle = 'rgba(20,20,40,.35)'; g.fillRect(x, y + 3, T, 2);
+  }
+  const side = (dx) => isWalkT(map.tileAt(tx + dx, ty));
+  if (side(-1)) { g.fillStyle = '#3c3d52'; g.fillRect(x, y, 1, T); } if (side(1)) { g.fillStyle = '#3c3d52'; g.fillRect(x + T - 1, y, 1, T); }
+}
+function paintCloud(g, tx, ty, x, y) { g.fillStyle = '#c3c6e4'; g.fillRect(x, y, T, T); }
+function cloudPuffs(g, map, tx0, ty0) {   // dải mây: cụm nhiều bông dẹt chồng nhau, bóng tím nhạt dưới (vẽ cả lề để không đứt mép khối)
+  for (let ty = ty0 - 4; ty < ty0 + CH + 4; ty++) for (let tx = tx0 - 5; tx < tx0 + CH + 5; tx++) {
+    if (map.tileAt(tx, ty) !== CLOUD || hash(tx, ty, 63) > 0.035) continue;
+    const n = 3 + Math.floor(hash(tx, ty, 64) * 3), bx = tx * T + 8, by = ty * T + 8, sc = 0.8 + hash(tx, ty, 65) * 0.8;
+    const blobs = Array.from({ length: n }, (_, i) => ({ x: bx + (i - n / 2) * 14 * sc + hash(tx, ty, 70 + i) * 8, y: by + hash(tx, ty, 80 + i) * 6, r: (9 + hash(tx, ty, 90 + i) * 9) * sc }));
+    g.fillStyle = 'rgba(150,150,196,.6)'; for (const b of blobs) { g.beginPath(); g.ellipse(b.x + 2, b.y + 4, b.r * 1.3, b.r * 0.75, 0, 0, 6.283); g.fill(); }
+    g.fillStyle = '#eceefa'; for (const b of blobs) { g.beginPath(); g.ellipse(b.x, b.y, b.r * 1.3, b.r * 0.75, 0, 0, 6.283); g.fill(); }
+    g.fillStyle = '#ffffff'; for (const b of blobs) { g.beginPath(); g.ellipse(b.x - b.r * 0.3, b.y - b.r * 0.25, b.r * 0.7, b.r * 0.35, 0, 0, 6.283); g.fill(); }
+  }
+}
 function buildChunk(map, cx, cy, phase, props) {
   const c = document.createElement('canvas'); c.width = c.height = CPX;
   const g = c.getContext('2d'); g.imageSmoothingEnabled = false; g.translate(-cx * CPX, -cy * CPX);
@@ -189,8 +233,12 @@ function buildChunk(map, cx, cy, phase, props) {
   for (let ty = ty0; ty < ty0 + CH; ty++) for (let tx = tx0; tx < tx0 + CH; tx++) {
     const t = map.tileAt(tx, ty), x = tx * T, y = ty * T;
     if (t === WATER) { g.drawImage(waterTiles[(phase + tx + ty) & 1], x, y); if (map.tileAt(tx, ty - 1) !== WATER) g.drawImage(waterBank, x, y); }
+    else if (map.sect && t === STONE) paintPath(g, map, tx, ty, x, y);
+    else if (map.sect && (t === CLIFF || t === FALL)) paintCliff(g, map, tx, ty, x, y);
+    else if (map.sect && t === CLOUD) paintCloud(g, tx, ty, x, y);
     else g.drawImage(groundTile(t, tx, ty, map), x, y);
   }
+  if (map.sect) cloudPuffs(g, map, tx0, ty0);
   // trang trí: cả các ô ngay dưới/bên khối (hình cao ~36 px, rộng ~42 px lấn vào khối này)
   if (props) for (let ty = ty0; ty < ty0 + CH + 3; ty++) for (let tx = tx0 - 3; tx < tx0 + CH + 3; tx++) {
     const t = map.tileAt(tx, ty), d = hash(tx, ty, 8), x = tx * T, y = ty * T;
@@ -847,6 +895,18 @@ export function render(ctx, g) {
     if (g.sect && vis.tm) for (const b of g.sect.buildings) {   // M8-15a: thềm đá dưới công trình (sát đất, dưới mọi vật)
       const t = b.them, img = t && vis.tm[t.kind];
       if (img && t.x < camX + W && t.x + t.w > camX && t.y < camY + H && t.y + t.h > camY) ctx.drawImage(img, t.x, t.y);
+    }
+    if (g.sect) {   // thác nước chảy (ô FALL): dải nước dọc chạy xuống + bọt ở chân thác
+      const tx0 = Math.floor(camX / T), ty0 = Math.floor(camY / T);
+      for (let ty = ty0; ty <= ty0 + Math.ceil(H / T); ty++) for (let tx = tx0; tx <= tx0 + Math.ceil(W / T); tx++) {
+        if (map.tileAt(tx, ty) !== FALL) continue;
+        const x = tx * T, y = ty * T, off = Math.floor(time * 40) % 8;
+        ctx.fillStyle = '#5fb4e6'; ctx.fillRect(x, y, T, T);
+        for (let i = 0; i < 4; i++) { const sx = x + i * 4 + Math.floor(hash(tx, i, 66) * 2); ctx.fillStyle = (i & 1) ? '#9bd8f5' : '#cdeffc';
+          for (let k = -1; k < 3; k++) ctx.fillRect(sx, y + ((off + k * 8 + i * 3) & 15) - 2, 2, 5); }
+        if (map.tileAt(tx, ty - 1) !== FALL) { ctx.fillStyle = '#e8f8ff'; ctx.fillRect(x, y, T, 2); }
+        if (map.tileAt(tx, ty + 1) !== FALL) { ctx.fillStyle = 'rgba(255,255,255,.85)'; for (let i = 0; i < 4; i++) ctx.fillRect(x - 2 + Math.floor(hash(tx, Math.floor(time * 6) + i, 67) * 18), y + T - 4 + (i & 1) * 2, 4, 2); }
+      }
     }
     if (g.sect && vis.nha) for (const b of g.sect.buildings) { const n = b.nha, v = n && vis.nha[n.id]; if (v) ctx.drawImage(v.base, n.x, n.y); }   // M8-15: nền nhà lớn
     if (g.sect && vis.plaza) ctx.drawImage(vis.plaza.base, Math.round(map.cx - vis.plaza.ax), Math.round(map.cy - vis.plaza.ay));   // M8: bệ pháp đài

diff --git a/src/world/map.js b/src/world/map.js
@@ -6,14 +6,14 @@ import { PLAZA } from '../data/sect_plaza.js';
 import { NHA } from '../data/sect_nha.js';
 
 export const GRASS = 0, WATER = 1, STONE = 2, TREE = 3, ROCK = 4;
-export const BUILDING = 5, FENCE = 6, DIRT = 7, CLIFF = 8, CLOUD = 9;   // M8 (15/11): vách núi rìa đảo, mây ngoài đảo (đặc)   // M8-02: nền công trình (đặc), hàng rào (đặc), sân đất (đi được)
+export const BUILDING = 5, FENCE = 6, DIRT = 7, CLIFF = 8, CLOUD = 9, FALL = 10;   // M8 (15/11): vách núi rìa đảo, mây ngoài đảo (đặc)   // M8-02: nền công trình (đặc), hàng rào (đặc), sân đất (đi được)
 
 function makeMap(w, h, seed, kind, gen) {
   const tiles = new Uint8Array(w * h);
   for (let y = 0; y < h; y++) for (let x = 0; x < w; x++) tiles[y * w + x] = gen(x, y);
   const m = { w, h, seed, kind, tiles, pw: w * T, ph: h * T, cx: w / 2 * T, cy: h / 2 * T };
   m.tileAt = (tx, ty) => (tx < 0 || ty < 0 || tx >= w || ty >= h) ? TREE : tiles[ty * w + tx];
-  m.solidTile = (tx, ty) => { const t = m.tileAt(tx, ty); return t === WATER || t === TREE || t === ROCK || t === BUILDING || t === FENCE || t === CLIFF || t === CLOUD; };
+  m.solidTile = (tx, ty) => { const t = m.tileAt(tx, ty); return t === WATER || t === TREE || t === ROCK || t === BUILDING || t === FENCE || t === CLIFF || t === CLOUD || t === FALL; };
   m.solidPx = (px, py) => m.solidTile(Math.floor(px / T), Math.floor(py / T));
   // x, y là vị trí bàn chân; hộp va chạm nhỏ quanh chân
   m.canStand = (x, y) => Number.isFinite(x) && Number.isFinite(y) &&
@@ -57,7 +57,7 @@ export function buildSectGrid(S = SECT) {
   const block = r => { for (let y = r.y0; y < r.y1; y++) for (let x = r.x0; x < r.x1; x++) if (inb(x, y)) solid[y * S.W + x] = 1; };
   const cx = S.MW ? S.MW / 2 - S.PADL : S.W / 2, cy = S.MH ? S.MH / 2 - S.PADT : S.H / 2;   // tâm bệ trong khung
   if (S.ROWS) {   // M8 (15/11): lưới bố cục theo concept
-    const MAPC = { '.': GRASS, '=': STONE, '~': WATER, 'd': DIRT, '^': CLIFF, 'T': TREE, 'B': GRASS, 'P': STONE, 'G': STONE, 'X': CLOUD, 'b': GRASS, 'W': WATER };
+    const MAPC = { '.': GRASS, '=': STONE, '~': WATER, 'd': DIRT, '^': CLIFF, 'T': TREE, 'B': GRASS, 'P': STONE, 'G': STONE, 'X': CLOUD, 'b': GRASS, 'W': FALL };
     for (let y = 0; y < S.H; y++) for (let x = 0; x < S.W; x++) set(x, y, MAPC[S.ROWS[y][x]] ?? GRASS);
     for (let x = 0; x < S.W; x++) for (const y of [0, S.H - 1]) if (g[y * S.W + x] === GRASS) set(x, y, TREE);   // mép khung kín
     for (let y = 0; y < S.H; y++) for (const x of [0, S.W - 1]) if (g[y * S.W + x] === GRASS) set(x, y, TREE);

diff --git a/src/data/sect_layout.js b/src/data/sect_layout.js
@@ -39,7 +39,7 @@ export const SECT = {
     ['den_da', 46.5, 47, [1, 1]], ['den_da', 74.5, 44, [1, 1]], ['den_da', 79.5, 32, [1, 1]], ['den_da', 75.5, 24, [1, 1]],
     ['den_da', 35.5, 52, [1, 1]], ['den_da', 44.5, 55, [1, 1]], ['den_da', 55.5, 47, [1, 1]], ['den_da', 66.5, 47, [1, 1]],
     ['bia_nho', 54.5, 53.5, [2, 1]], ['bia_nho', 66, 54, [2, 1]],
-    ['cau_da', 35.5, 58.3],
+    ['cau_da', 35.5, 58.2],
     ['luyen_vo', 103.5, 47, [4, 2]], ['moc_nhan', 90.5, 49, [1, 1]], ['moc_nhan', 94.5, 49, [1, 1]], ['moc_nhan', 92.5, 52, [1, 1]],
     ['gia_binh_khi', 98, 46, [2, 1]], ['co_phuon', 84.5, 45, [1, 1]], ['co_phuon', 106.5, 55, [1, 1]],
     ['anh_dao_lon', 46, 16, [2, 1]], ['anh_dao_lon', 14, 34, [2, 1]], ['anh_dao_lon', 12, 50, [2, 1]], ['anh_dao_lon', 106, 24, [2, 1]],

diff --git a/tools/sect_bo_cuc.py b/tools/sect_bo_cuc.py
@@ -45,7 +45,7 @@ BUILDINGS = {
     'luyen_vo_choi': dict(box=(98, 39, 108, 46), foot=(98, 46), name='chòi Luyện Võ'),
 }
 BIA = dict(box=(50, 43, 66, 56))
-BRIDGE = dict(box=(29, 54, 42, 59))
+BRIDGE = dict(box=(33, 54, 38, 60))   # chỉ để ghi nhãn: đường dừng ở bờ suối, cầu đá là vật trang trí đặt trên nước
 FALLS = [(5, 4, 9, 26), (31, 59, 37, 68), (80, 58, 86, 68)]                   # thác nước (vẽ trang trí, đặc)
 COLORS = {'.': (78, 150, 70), '=': (190, 182, 170), '~': (70, 150, 210), 'd': (196, 160, 105), '^': (95, 95, 120), 'T': (60, 50, 100),
           'B': (170, 70, 70), 'P': (220, 220, 235), 'G': (150, 90, 200), 'X': (225, 230, 245), 'b': (130, 130, 130), 'W': (150, 210, 250)}
@@ -65,7 +65,6 @@ def build():
     d.rectangle([GATE['x'][0], GATE['y'][0], GATE['x'][1], GATE['y'][1]], fill=ord('G'))
     for b in BUILDINGS.values(): d.rectangle(b['box'], fill=ord('B'))
     d.rectangle(BIA['box'], fill=ord('b'))
-    d.rectangle(BRIDGE['box'], fill=ord('='))
     for f in FALLS: d.rectangle(f, fill=ord('W'))
     g = np.array(L)
     # vách núi: ô ngoài đảo kề ô đảo (viền dày 2) -> đặc, vẽ đá
@@ -74,6 +73,12 @@ def build():
     for dy in range(-2, 3):
         for dx in range(-2, 3): near |= np.roll(np.roll(inside, dy, 0), dx, 1)
     g[(~inside) & near] = ord('^')
+    # mặt vách phía nam (nhìn 3/4 thấy vách dưới mép đảo): mỗi cột kéo vách xuống thêm 5 ô dưới ô đảo thấp nhất
+    for x in range(NX):
+        ys = np.where(inside[:, x])[0]
+        if ys.size:
+            for y in range(ys.max() + 1, min(NY, ys.max() + 7)):
+                if g[y, x] == ord('X'): g[y, x] = ord('^')
     # mảnh đất đi được không nối với bệ (dải cỏ sau suối...) -> vách núi (concept: mép vách ngay dưới suối)
     walk = np.isin(g, [ord(c) for c in '.=dPbBG'])
     seen = np.zeros_like(walk); st = [(int(PLAZA['c'][0]), int(PLAZA['c'][1]))]

diff --git a/TASKS_TU_TIEN_LO.md b/TASKS_TU_TIEN_LO.md
@@ -406,9 +406,9 @@ Thiết kế + backlog đầy đủ (ChatGPT, 13/11): **`docs/chatgpt_tong_mon_M
   - [x] a. Thềm đá + bậc cho 5 công trình (14/11): ChatGPT vẽ 2 thềm (ngang, vuông) `docs/concept/tong_mon_them_chatgpt.png` -> `tools/build_them.py` -> `sprites/tm_them.*`; `THEM` trong sect_layout (chân, chiếu nghỉ, cột bậc); nhà đặt trên thềm, bỏ bậc rời; chỉ bậc + chiếu nghỉ đi được; cửa = giữa bậc; dời 4 đèn đá; ảnh `docs/playtest/M8_15a_them.png`
   - [~] g. (14/11, người phát triển) Công trình LỚN đi vào được, bám concept: ChatGPT vẽ nhà mở mặt trước -> `tools/build_nha.py` (sàn = đa giác trừ đồ đạc, đồ đạc chỉ chặn ở chân, loang theo hộp chân nhân vật) -> `sprites/nha_<id>*.png` + `src/data/sect_nha.js`; game: nền + lớp che theo chân cột, va chạm lưới 4 px, E ở đồ vật chính. Xong thử: Đan Dược Phòng (262×230, E ở đỉnh đan; ảnh `docs/playtest/M8_nha_dan_duoc_thu.png`). Còn: 4 nhà kia + mở sảnh ~130×90 ô
   - [x] h. (15/11) Bố cục sảnh theo concept ảnh 1 (người phát triển duyệt): `tools/sect_bo_cuc.py` (đa giác/đường/nước/vách đọc trên lưới 120×68 phủ concept) -> `src/data/sect_bocuc.js`; `SECT.ROWS` + ô mới CLIFF/CLOUD; bản đồ 140×88, tâm bệ = tâm bản đồ; công trình tạm (sprite nhỏ + thềm) đặt ở chân bậc theo concept; đất rời không nối bệ -> vách. Ảnh `docs/playtest/M8_bo_cuc_so_sanh.png`, `M8_sanh_moi_toan_canh.png`. Còn: nhà tách đúng concept, hình vách/thác/suối/đường đẹp
-  - [ ] b. Đường lát đá: ô bo góc/chéo cho mượt (hết răng cưa)
-  - [ ] c. Suối phía nam: bờ đá, cầu đá đúng chỗ, thác hai đầu
-  - [ ] d. Vách núi + rừng bao quanh rìa tông môn (thay hàng cây ô vuông)
+  - [x] b. (15/11) Đường lát đá vẽ bằng code (`paintPath` trong render.js): đá cuội, viền bó vỉa giáp cỏ, bo góc
+  - [x] c. (15/11) Suối phía nam: đường dừng ở bờ, cầu đá đặt trên mặt nước; ô FALL + lớp thác động ở 3 thác (trái, 2 thác nam)
+  - [x] d. (15/11) Vách núi (`paintCliff`, mép cỏ trên, mặt vách nam kéo dài 6 ô) + mây phẳng ngoài đảo (`paintCloud`, `cloudPuffs`). Ảnh xem trong game, test 209/209
   - [ ] e. Luyện Võ Trường: hàng rào/cổng rào liền, sân đất có viền
   - [ ] f. Cổng bí cảnh: bậc + sân trước cổng như concept ảnh 1
 - [ ] M8-07..11 kiểm từng khu, M8-12 HUD, M8-14 cảm ứng, M8-16 save/regression, M8-17..18 playtest: sau khi xong M8-15
